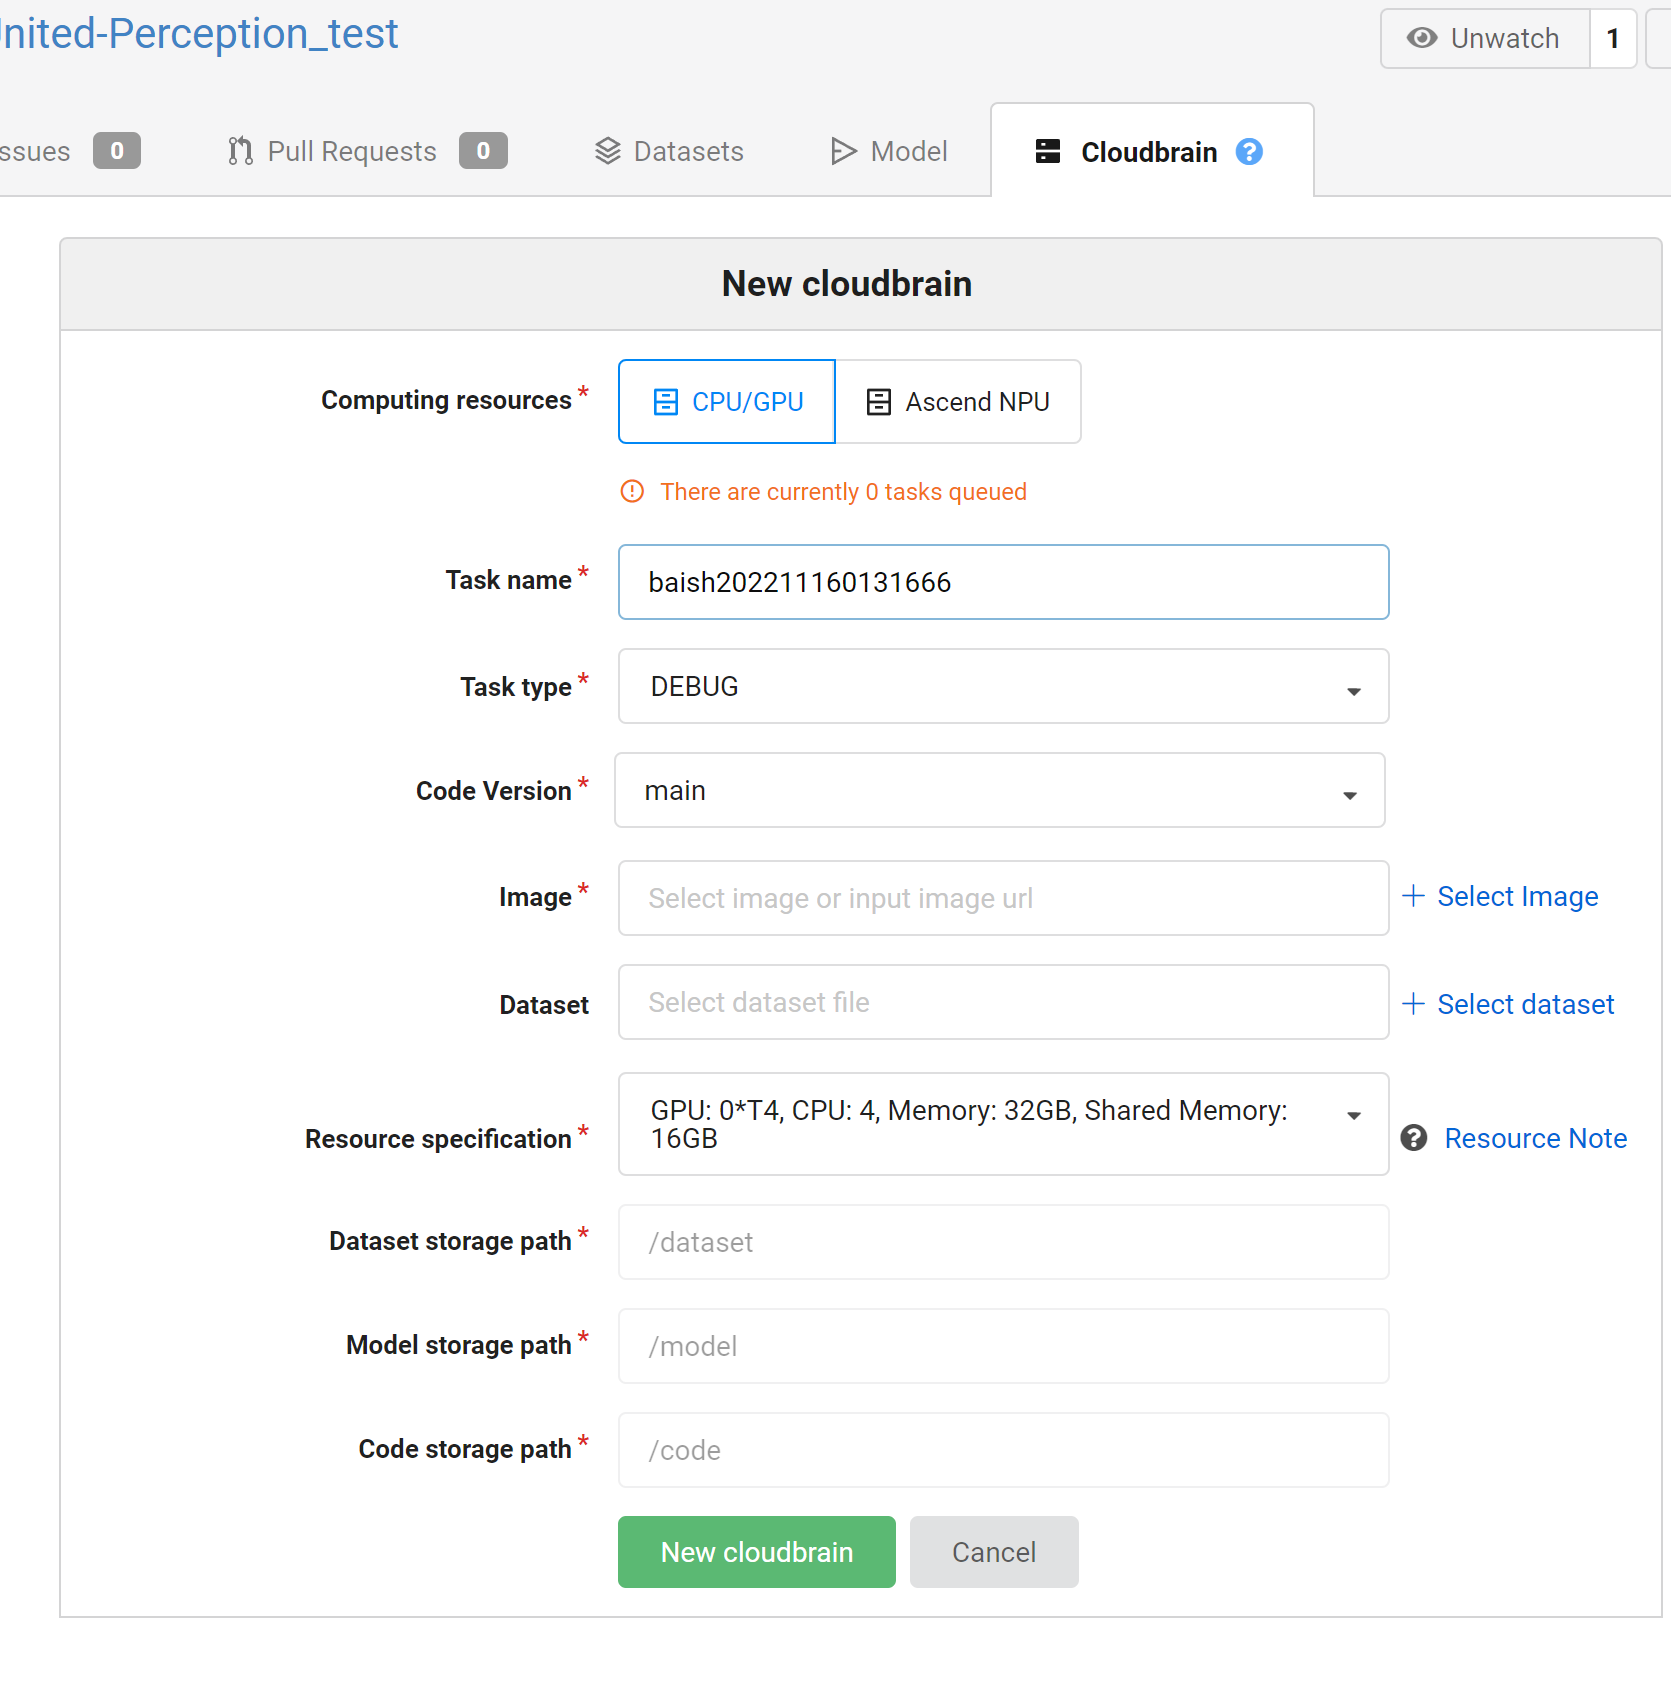
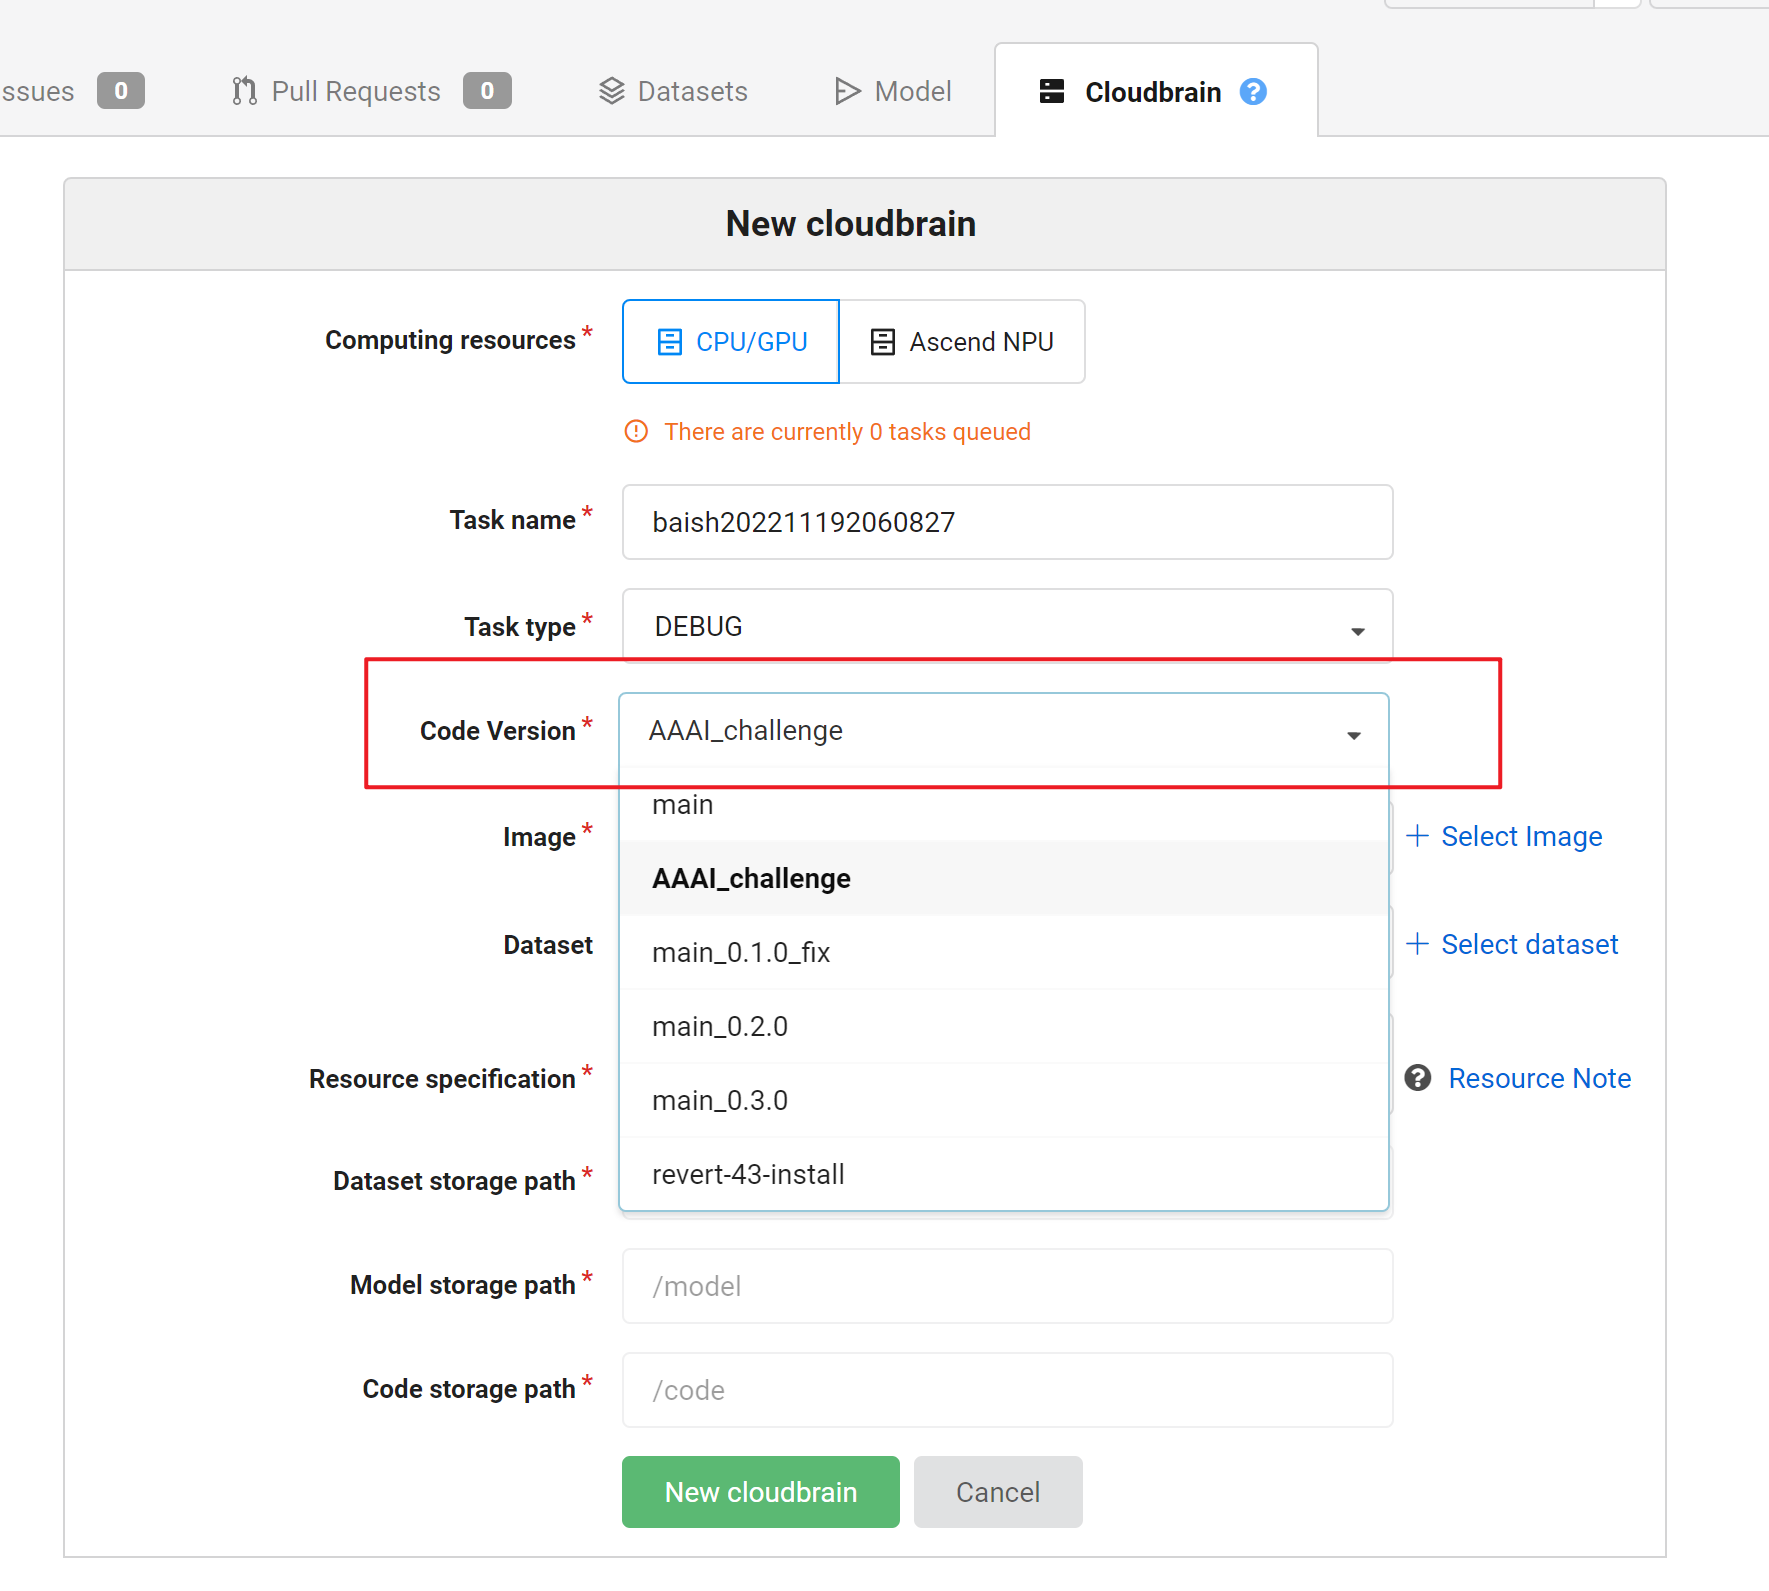
Add the training process

diff --git a/openI.md b/openI.md
@@ -1,10 +1,12 @@
 ## OpenI Platform
 
-We provide training resources for participants on the OpenI platform where the participants can use two v100 or A100 to train their models.
+We provide training resources for participants on the OpenI platform where the participants can use two v100 to train their models. If you want to use the GPUs we provided,  please register your account in https://openi.org.cn/  and submit your username and mails to [here](https://docs.qq.com/sheet/DT0taRGNzRkFzbFNa?tab=BB08J2).  You can check if you have successfully enabled the permission [here](https://openi.pcl.ac.cn/AAA2023).
+
+<img src=".\figs\group.png" alt="group" style="zoom:25%;" />
 
 **1. migrate the code from github**
 
-You can first register your account in https://openi.org.cn/ and migrate the  [United-Perception](https://github.com/ModelTC/United-Perception/tree/main/up)  repo to openi as follows:
+You can migrate the  [United-Perception](https://github.com/ModelTC/United-Perception/tree/main/up)  repo to openi as follows and we recommend that you switch to the AAAI_challenge branch, which is specially prepared for the OpenI platform.
 
 <img src="./figs/home.png" alt="home" style="zoom:25%;" />
 
@@ -22,6 +24,8 @@ You can build your own datasets by associating datasets we provided.
 
 **3. Debug and Train**
 
+**3.1 Debug**
+
 The OpenI provides convenient debugging and training functions. Participants can debug their code by following the steps below.
 
 <img src="./figs/debug.png" alt="debug" style="zoom:25%;" />
@@ -37,3 +41,27 @@ The OpenI provides convenient debugging and training functions. Participants can
 You can choose your most similar tools to debug your code.
 
 <img src="./figs/debug6.png" alt="debug4" style="zoom:25%;" />
+
+**3.2 Train**
+
+During training, your code is saved in `/tmp/code/` by default, datasets are saved in `/tmp/dataset/` by default, and the outputs is saved in `/tmp/output/` by default. More details can be seen [here](https://openi.pcl.ac.cn/resource_desc). You can follow these steps to train your model.
+
+The training Image is：`dockerhub.pcl.ac.cn:5000/user-images/openi:1.3.0`
+
+<img src=".\figs\train1.png" alt="train1" style="zoom: 33%;" />
+
+
+
+<img src=".\figs\train2.png" alt="train2" style="zoom:33%;" />
+
+<img src=".\figs\train3.png" alt="train3" style="zoom: 33%;" />
+
+You can view the training results and download the model files here.
+
+<img src=".\figs\train4.png" alt="train4" style="zoom:38%;" />
+
+<img src=".\figs\train5.png" alt="train5" style="zoom:38%;" />
+
+
+
+<img src=".\figs\train6.png" alt="train6" style="zoom:38%;" />
